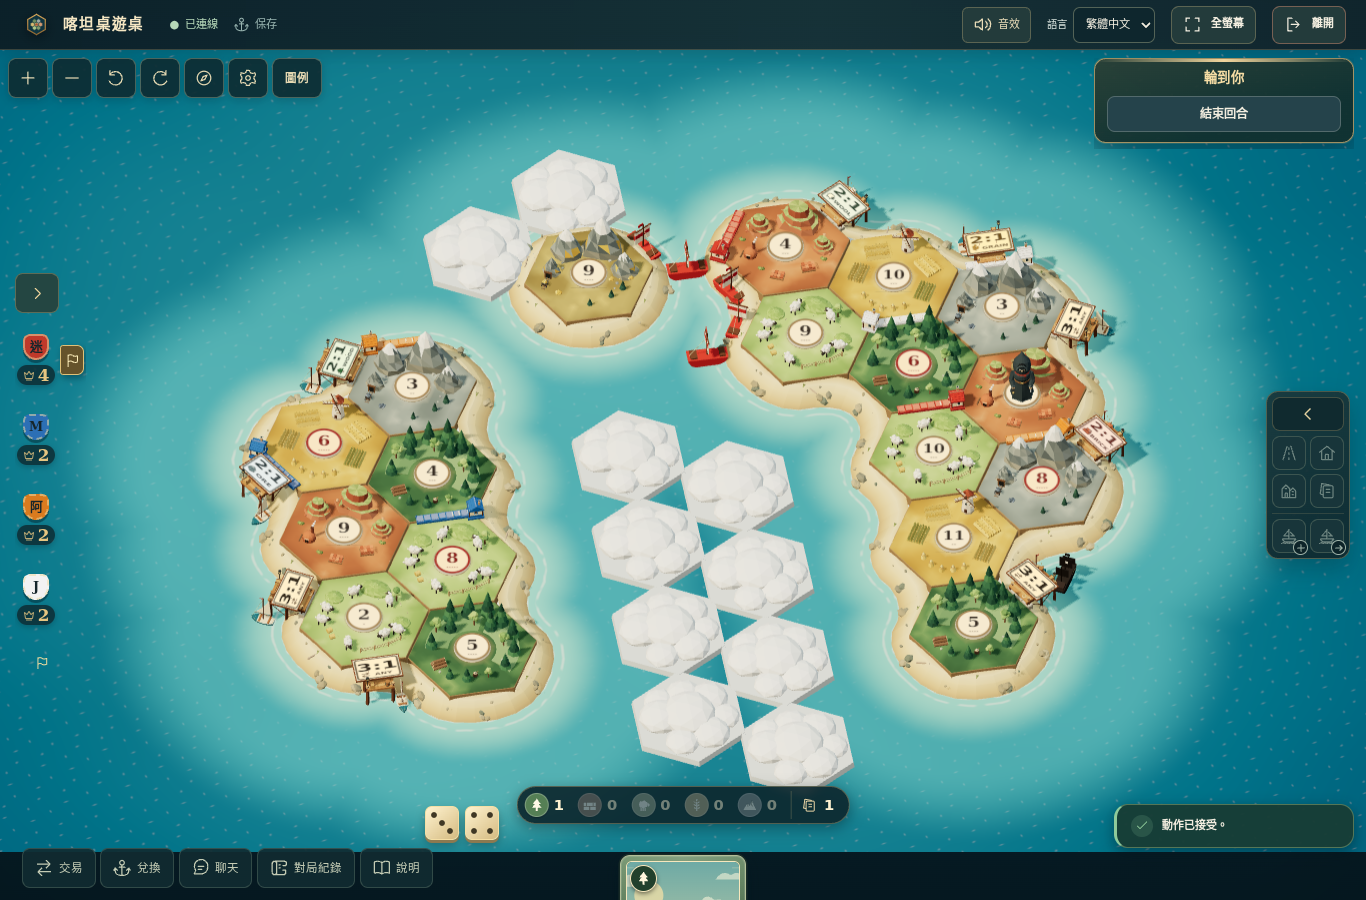
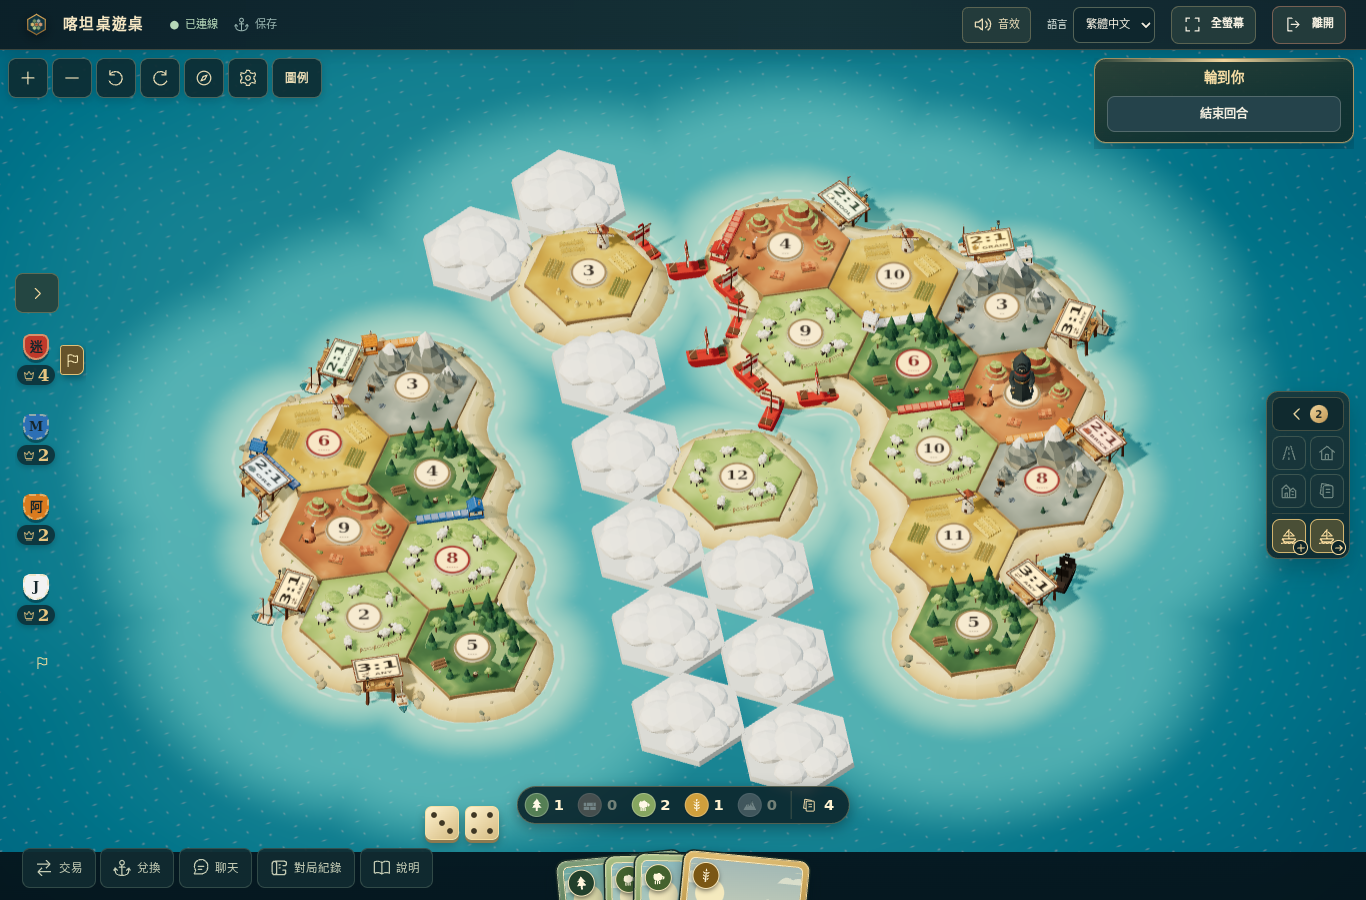
👷 ci(rules): do a fog choice on both boards in the evidence run
A second two-space ship repeats the choice prompt on the svg board (the
confirm preview reads unexplored); the 3d board keeps its own. Docs follow
the setup change: setup roads and ships do not explore, queued frames are
filtered and a lone hex reveals itself.

diff --git a/scripts/seafarers/capture_fog_islands.py b/scripts/seafarers/capture_fog_islands.py
@@ -165,10 +165,10 @@ def live(contexts, pages, identity, game_id):
         plan.update(json.loads(out))
         if plan['settlement'] is not None:
             state['board']['buildings'][plan['settlement']] = {'player': p1, 'city': False}
-        for edge in plan['choice']['prefix'] + plan['reveal']['prefix']:
+        for edge in plan['choice']['prefix'] + plan['choice2']['prefix'] + plan['reveal']['prefix']:
             state['board']['roads'][edge] = {'player': p1, 'ship': True}
         player = state['players'][seat]
-        player['resources'] = {'lumber': 2, 'brick': 0, 'wool': 2, 'grain': 0, 'ore': 0}
+        player['resources'] = {'lumber': 3, 'brick': 0, 'wool': 3, 'grain': 0, 'ore': 0}
         state['turn'].update({'seat': seat, 'phase': 'action', 'dice': [3, 4], 'setup': None})
         state['pending'] = None
         state['windowId'] += 1
@@ -176,7 +176,7 @@ def live(contexts, pages, identity, game_id):
     page = pages[0]
     for other in pages:
         other.reload()
-    reveal, choice = plan['reveal'], plan['choice']
+    reveal, choice, choice2 = plan['reveal'], plan['choice'], plan['choice2']
     path = f'/api/games/{game_id}'
 
     view = snap(contexts[0], path)['view']
@@ -231,6 +231,31 @@ def live(contexts, pages, identity, game_id):
     wait_fog_3d(page, 10)
     shot(page, 'live-fog-reveal-3d', f"the chosen hex {pick} is revealed in 3D: {tile}{' (gold picked in the UI)' if gold else ''}; 10 fog banks left", ms=2500)
 
+    # 3) 第二個多空格選擇：SVG 渲染器上建造、在 SVG 棋盤上選（預覽顯示「未探索」）。
+    open_game(page, game_id, 'svg')
+    open_actions(page)
+    page.get_by_test_id('action-build.ship').click()
+    ui_target(page, 'edge', choice2['edge'])
+    ui_confirm(page)
+    page.wait_for_timeout(800)
+    view = snap(contexts[0], path)['view']
+    assert view['pending'] and view['pending']['kind'] == 'seafarers.fog', view['pending']
+    assert sorted(view['pending']['data']['hexes']) == sorted(choice2['hexes']), (view['pending'], choice2)
+    assert len(view['modules']['seafarers']['fog']) == 10
+    for hex_index in choice2['hexes']:
+        expect(page.get_by_test_id(f'target-hex-{hex_index}')).to_be_attached()
+    pick2 = choice2['hexes'][0]
+    ui_target(page, 'hex', pick2)
+    expect(page.get_by_test_id('selection-preview')).to_contain_text('未探索')
+    shot(page, 'live-fog-choice-svg', f"SVG choice between {choice2['hexes']}: picked hex {pick2}, the confirm preview says unexplored")
+    ui_confirm(page)
+    page.wait_for_timeout(800)
+    gold2 = settle_gold(page)
+    view = snap(contexts[0], path)['view']
+    assert view['pending'] is None and pick2 not in view['modules']['seafarers']['fog'] and len(view['modules']['seafarers']['fog']) == 9
+    expect(page.locator('[data-testid^="sf-fog-"]')).to_have_count(9)
+    shot(page, 'live-fog-reveal-choice-svg', f"the chosen hex {pick2} is revealed on the SVG board: {view['board']['terrain'][pick2]}{' (gold picked in the UI)' if gold2 else ''}; 9 clouds left")
+
     # 手機寬度：迷霧與翻開後的格。
     phone_ctx = browser_ref['browser'].new_context(storage_state=contexts[0].storage_state(), viewport=base.PHONE, locale='zh-TW',
                                                    reduced_motion='reduce', service_workers='block', is_mobile=True, has_touch=True)
@@ -238,8 +263,8 @@ def live(contexts, pages, identity, game_id):
     phone.on('pageerror', lambda error: ERRORS.append(f'phone: {error}'))
     phone.set_default_timeout(base.TIMEOUT)
     open_game(phone, game_id, 'svg')
-    assert fog_count_svg(phone) == 10
-    shot(phone, 'live-fog-phone', 'phone width: 10 clouds left, two hexes revealed')
+    assert fog_count_svg(phone) == 9
+    shot(phone, 'live-fog-phone', 'phone width: 9 clouds left, three hexes revealed')
     phone_ctx.close()
 
     # 3) 收尾：給最後的分數與一個空位，合法的蓋村落命令達 12 分（沒有島嶼獎勵）。

diff --git a/docs/FIDELITY.md b/docs/FIDELITY.md
@@ -134,7 +134,7 @@ six whole simulated base/paired games are pinned against the active
 | R-CK client | knight/wall actions, two-step knight move, pillage/retreat board arming, SVG knights/walls/metropolises/toppled cities and idle robber, 3D models, prompts (progress discard, aqueduct, defender deck), panel (chart, buy, metropolis site), commodity discard, score points, every event in both locales, sound cues; progress hand (playable, unplayable with reason, direct / target / form plays), the Alchemy, Invention, Crane and Smithing forms, every responder prompt and its privacy, board intents, the merchant piece in SVG and 3D, card faces and strings in both locales | `packages/web/test/cities-knights.test.tsx`, `packages/web/test/cities-knights-progress.test.tsx`; browser runs `scripts/cities-knights/capture.py` and `scripts/cities-knights/progress.py` ([captures](screenshots/cities-knights/README.md)) | covered in headless Chromium; no human playtest |
 | R-SF client | ship actions, two-step ship move, pirate targets, gold picker, SVG ships/pirate/tokens, sea targets at the water plane, event text; browser run of a live game (setup ship, ship build, ship move, island bonus, pirate, gold) and the 3/4/6-player maps in SVG and 3D | `packages/web/test/seafarers.test.tsx` (7), `scripts/seafarers/capture.py`, [captures](screenshots/seafarers/README.md) | covered in headless Chromium; no human playtest |
 | R-SFX-S2 The Four Islands | `sf-four-islands-2025` (3 and 4 players, SF25 pp. 6–7, `sf-2025.3`): the two 35-hex maps transcribed twice independently from the printed pages and compared cell by cell (identical), checked against the component tables (terrain, discs 20 / 23, 5×2:1 + 4×3:1 harbors, islands 4/6/6/4 and 4/8/7/4, no main island, robber on the 12, pirate on the frame); both starting settlements (with road or ship) on any island, one or two; home islands recorded at the end of setup and published; +2 VP for a player's first settlement on each island that is not one of their home islands, counted per player, none during setup; 13 VP on the own turn; 15 ships, B25 supply and deck; no bot seats | `packages/rules/test/seafarers-four-islands.test.ts` (layouts, topologies, setup on any island, home islands, island bonus, 13 VP), `seafarers-sim.test.ts` (3- and 4-player simulated games), `seafarers-exports.test.ts` (`home` view key), `packages/server/test/seafarers-four-islands.test.ts` (rooms, starts, restart, finish, bot refusal), `packages/web/test/seafarers-four-islands.test.tsx` (SVG board, help panel), `scripts/seafarers/capture_four_islands.py`; transcription and interpretations in `docs/aegis/work/2026-11-22-seafarers-four-islands.md` | covered; the 4-player right-top island has 8 hexes because two hexes share an edge (interpretation I2); the fixed maps print forest/pasture 3, 11 and 12, the "no 2, 3, 11, 12" limit belongs to the variable setup (S10) |
-| R-SFX-S3 The Fog Islands | `sf-fog-islands-2025` (3 and 4 players, SF25 pp. 8–9, `sf-2025.3`): the two 42-hex maps (30 known hexes + 12 empty spaces) transcribed twice independently from the printed pages and compared cell by cell (identical), checked against the component tables (known terrain and discs 14 / 17, fog deck sea 2, gold 2, fields 2, hills 2, mountains 2, pasture 1, forest 1 and 10 discs, 5×2:1 + 3 / 4×3:1 harbors, robber on the 12, pirate on the frame); spaces stored as numberless sea and drawn with `ctx.rng` only when revealed, no unrevealed identity in projection, events or snapshot (SFX-S3-P); building a road or ship whose end touches a space reveals it (several: the placer chooses), explorer takes 1 card of the land's resource (gold: own choice, supply permitting), sea gives nothing; moving a ship, settlements do not explore (`fogOnMove` off); setup roads and ships count; starting settlements on known islands only; robber on land, pirate on revealed sea only; 12 VP, no island bonus; no bot seats | `packages/rules/test/seafarers-fog-islands.test.ts`, `seafarers-sim.test.ts`, `seafarers-exports.test.ts`, `packages/server/test/seafarers-fog-islands.test.ts`, `packages/web/test/seafarers-fog-islands.test.tsx`, `scripts/seafarers/capture_fog_islands.py`; transcription and interpretations in `docs/aegis/work/2026-11-23-seafarers-fog-islands.md` | covered; interpretations (OQ-2): several spaces at once → placer chooses, moving a ship does not explore (flag `fogOnMove`), gold explored → explorer picks any resource; setup placements explore (work record I8) |
+| R-SFX-S3 The Fog Islands | `sf-fog-islands-2025` (3 and 4 players, SF25 pp. 8–9, `sf-2025.3`): the two 42-hex maps (30 known hexes + 12 empty spaces) transcribed twice independently from the printed pages and compared cell by cell (identical), checked against the component tables (known terrain and discs 14 / 17, fog deck sea 2, gold 2, fields 2, hills 2, mountains 2, pasture 1, forest 1 and 10 discs, 5×2:1 + 3 / 4×3:1 harbors, robber on the 12, pirate on the frame); spaces stored as numberless sea and drawn with `ctx.rng` only when revealed, no unrevealed identity in projection, events or snapshot (SFX-S3-P); building a road or ship whose end touches a space reveals it (several: the placer chooses), explorer takes 1 card of the land's resource (gold: own choice, supply permitting), sea gives nothing; moving a ship, settlements and setup roads/ships do not explore (`fogOnMove` off); starting settlements on known islands only; robber on land, pirate on revealed sea only; 12 VP, no island bonus; no bot seats | `packages/rules/test/seafarers-fog-islands.test.ts`, `seafarers-sim.test.ts`, `seafarers-exports.test.ts`, `packages/server/test/seafarers-fog-islands.test.ts`, `packages/web/test/seafarers-fog-islands.test.tsx`, `scripts/seafarers/capture_fog_islands.py`; transcription and interpretations in `docs/aegis/work/2026-11-23-seafarers-fog-islands.md` | covered; interpretations (OQ-2): several spaces at once → placer chooses, moving a ship does not explore (flag `fogOnMove`), gold explored → explorer picks any resource; setup placements do not explore (work record I8: a reveal during setup would hand out cards or raise frames before the game starts) |
 | R-SFX-S4 Through the Desert | `sf-through-the-desert-2025` (3 and 4 players, SF25 pp. 10–11, `sf-2025.3`): the 35-hex (3 players) and 42-hex (4 players) maps transcribed twice independently from the printed pages and compared cell by cell (identical on terrain, discs, islands, sea and harbor hex/side/token), checked against the component tables (terrain 35 / 42 hexes, discs 22 / 27, 5×2:1 + 3 / 4×3:1 harbors) and the SFCN-20 main-island / outlying sub-tables (land and discs; the sea split is not visible on the page, only its sum is checked), robber on the desert (0, -2), pirate on the frame; both starting settlements (with road or ship) on the main island only and on no corner touching a hex of an unexplored region (the main-island corners next to the land strip are excluded too); +2 VP for a player's first settlement in each of the four unexplored regions (land strip 2, small islands 3–5), counted per player, none during setup, a corner touching the desert (main island) and the strip counts for the strip; roads and settlements on the desert as in the base rules; 14 VP on the own turn; 15 ships, B25 supply and deck; no bot seats | `packages/rules/test/seafarers-through-the-desert.test.ts` (topologies, layouts, sub-tables, setup exclusion, per-region bonus, the desert/strip corner, 14 VP, VP token bound 24 / 32), `seafarers-sim.test.ts` (3- and 4-player simulated games), `packages/server/test/seafarers-through-the-desert.test.ts` (rooms, starts, main-island setup, restart, finish, bot refusal), `packages/web/test/seafarers-through-the-desert.test.tsx` (SVG board, coastline, help panel, wording), `scripts/seafarers/capture_through_the_desert.py`; transcription and interpretations in `docs/aegis/work/2026-11-23-seafarers-through-the-desert.md` | covered; the sea sub-table (main 8 / 10, outlying 2 / 2) cannot be read from the page, so only its sum against the sea-hex count is checked (interpretation I3); the printed 4-player strip carries gold 10 and the 3-player strip gold 4 (the second gold field is on small island 4); the red-disc rule (6 and 8 not adjacent, not on gold) belongs to the variable setup (S10) and is not applied to the printed maps |
 | R-COMB setup / victory | both combined profiles run `['seafarersCitiesKnights','seafarers','citiesKnights']`; 16 VP (COMB-7); the progress decks replace the development cards; 15 roads and 15 ships, 6 knights, 3 walls, 12/18 commodities and 19/24 resources per kind; settlement then city on the main island, the city takes one card per terrain (CK25 pp. 3, 5; SF25 pp. 2–5) | `packages/rules/test/sfck-clauses.test.ts` (SFCK-P1…P3) | covered |
 | R-COMB gold / merchant | a city at gold takes resources only (COMB-8); gold counts as production for the aqueduct and its choice precedes the bonus (SFCK-5); the merchant never stands on gold (COMB-9, CK12-4) | `sfck-clauses.test.ts` (COMB-8, SFCK-5 ×2, COMB-9) | covered |
